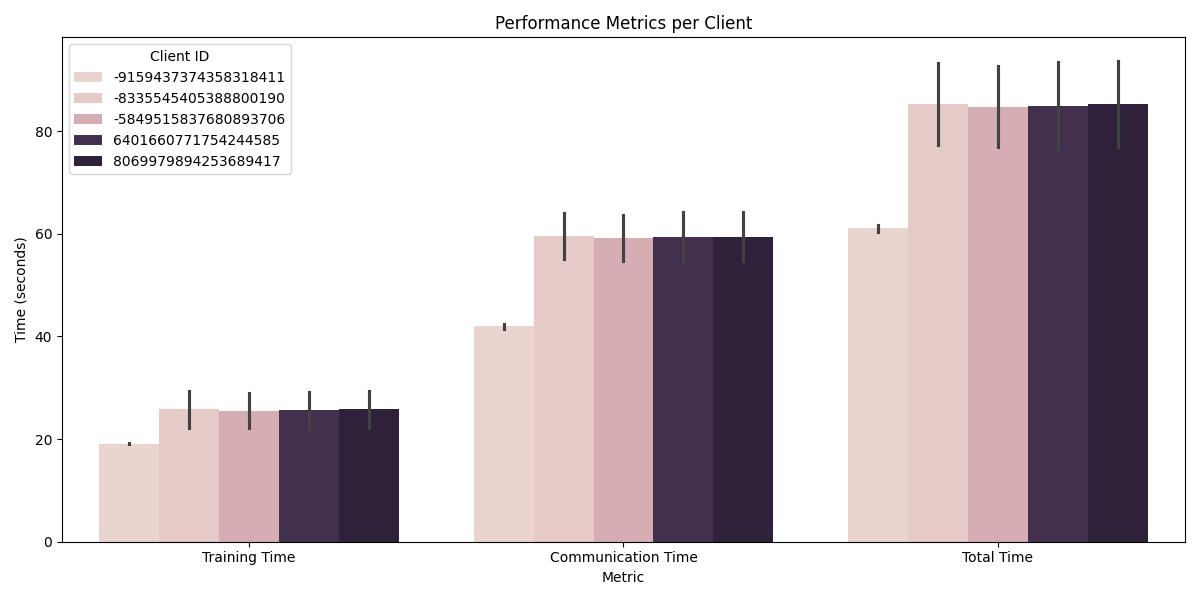
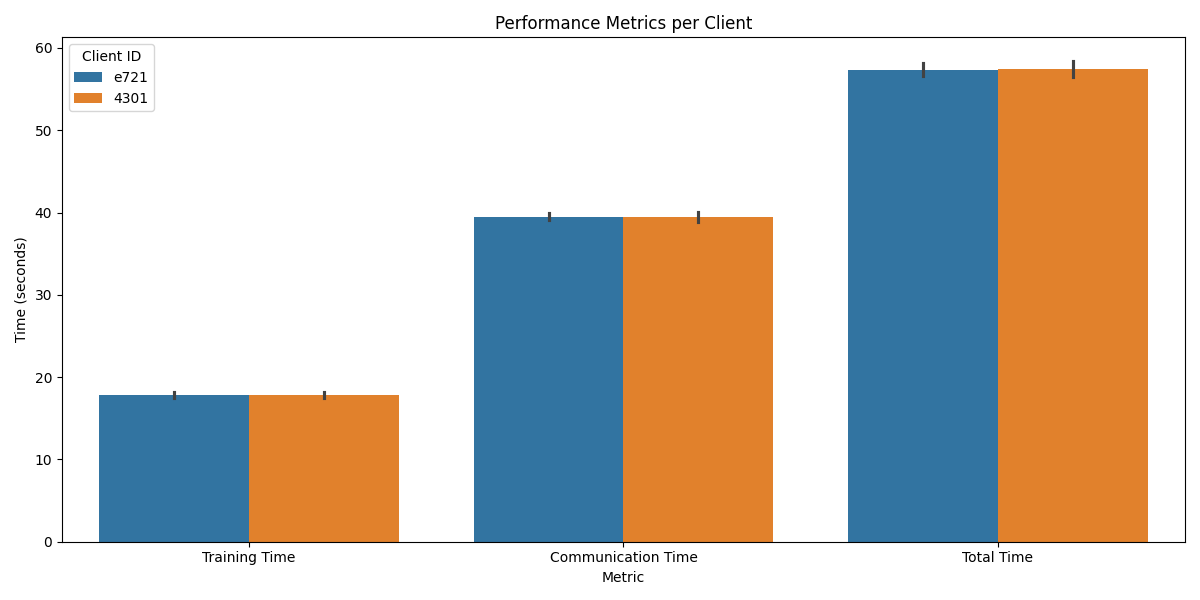
Added changes on client ids

diff --git a/Federated Learning S Local/client.py b/Federated Learning S Local/client.py
@@ -3,6 +3,7 @@ from flwr.common import Context  # Importa il tipo Context
 import time
 import csv
 import os
+import hashlib  # Importa hashlib per il hashing
 
 from task import DEVICE, Net, get_weights, load_data, set_weights, train, test
 
@@ -12,7 +13,7 @@ if not os.path.exists(performance_dir):
     os.makedirs(performance_dir)
 
 # Inizializza il file CSV, sovrascrivendolo
-csv_file = performance_dir + 'performance.csv'
+csv_file = os.path.join(performance_dir, 'performance.csv')
 if os.path.exists(csv_file):
     os.remove(csv_file)  # Sovrascrivi il file precedente
 
@@ -20,17 +21,17 @@ with open(csv_file, 'w', newline='') as file:
     writer = csv.writer(file)
     writer.writerow(['Client ID', 'FL Round', 'Training Time', 'Communication Time', 'Total Time'])
 
-# Load model and data (simple CNN, CIFAR-10)
+# Carica modello e dati (simple CNN, CIFAR-10)
 net = Net().to(DEVICE)
 trainloader, testloader = load_data()
 
-# Define FlowerClient and client_fn
+# Definisci FlowerClient e client_fn
 class FlowerClient(NumPyClient):
     def __init__(self, cid):
-        self.client_id = cid
+        self.cid = cid
 
     def fit(self, parameters, config):
-        print(f"CLIENT {self.client_id}: Starting training...", flush=True)  # Log con il PID del client
+        print(f"CLIENT {self.cid}: Starting training...", flush=True)  # Log con il PID del client
 
         # Misura il tempo di comunicazione iniziale (ricezione dei parametri dal server)
         comm_start_time = time.time()
@@ -46,33 +47,42 @@ class FlowerClient(NumPyClient):
         communication_time = comm_end_time - comm_start_time
 
         # Logging del tempo di training
-        print(f"CLIENT {self.client_id}: Training completed in {training_time:.2f} seconds", flush=True)
+        print(f"CLIENT {self.cid}: Training completed in {training_time:.2f} seconds", flush=True)
 
         # Logging del tempo di comunicazione
-        print(f"CLIENT {self.client_id}: Communication time: {communication_time:.2f} seconds", flush=True)
+        print(f"CLIENT {self.cid}: Communication time: {communication_time:.2f} seconds", flush=True)
 
         total_time = training_time + communication_time
+
+        # Recupera il numero del round FL, se disponibile
+        fl_round = config.get("fl_round", 0)
 
         # Append timing data to CSV
         with open(csv_file, 'a', newline='') as file:
             writer = csv.writer(file)
-            writer.writerow([self.client_id, 0, training_time, communication_time, total_time])
+            writer.writerow([self.cid, fl_round, training_time, communication_time, total_time])
 
-        # Return weights and size
+        # Return weights, size of training data, and results
         return get_weights(net), len(trainloader.dataset), results
 
     def evaluate(self, parameters, config):
-        print(f"CLIENT {self.client_id}: Starting evaluation...", flush=True)  # Log con il PID del client
+        print(f"CLIENT {self.cid}: Starting evaluation...", flush=True)  # Log con il PID del client
         set_weights(net, parameters)
         loss, accuracy = test(net, testloader)
-        print(f"CLIENT {self.client_id}: Evaluation completed", flush=True)
+        print(f"CLIENT {self.cid}: Evaluation completed", flush=True)
         return loss, len(testloader.dataset), {"accuracy": accuracy}
 
-
 def client_fn(context: Context):
-    cid = context.node_id  # Flower dovrebbe fornire questo nel Context
-    return FlowerClient(cid)
+    original_cid = context.node_id  # Flower dovrebbe fornire questo nel Context
 
+    # Assicurati che original_cid sia una stringa
+    original_cid_str = str(original_cid)
+
+    # Utilizza un hash MD5 e tronca a 4 caratteri per ridurre la lunghezza di cid
+    hash_object = hashlib.md5(original_cid_str.encode())
+    cid = hash_object.hexdigest()[:4]  # Tronca a 4 caratteri
+
+    return FlowerClient(cid=cid)
 
 # Flower ClientApp usando client_fn
 app = ClientApp(client_fn=client_fn)
@@ -81,7 +91,18 @@ app = ClientApp(client_fn=client_fn)
 if __name__ == "__main__":
     from flwr.client import start_client
 
+    # Esempio di ID originale (puoi sostituirlo con il tuo metodo di generazione)
+    original_cid = "1234567890"  # Sostituisci con il tuo metodo di generazione dell'ID originale
+
+    # Assicurati che original_cid sia una stringa
+    original_cid_str = str(original_cid)
+
+    # Utilizza un hash MD5 e tronca a 4 caratteri
+    hash_object = hashlib.md5(original_cid_str.encode())
+    cid = hash_object.hexdigest()[:4]  # Tronca a 4 caratteri, ad esempio "1a2b"
+
+    # Avvia il client Flower
     start_client(
         server_address="127.0.0.1:8080",
-        client=FlowerClient(cid="0").to_client(),
+        client=FlowerClient(cid=cid).to_client(),
     )
